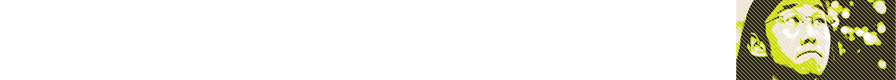
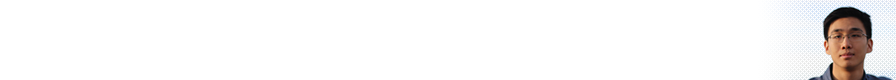
changed sidebar bg pattern to be more subtle

Changed region(s): [[0.8125, 0.0, 1.0, 1.0]]

diff --git a/css/style.css b/css/style.css
@@ -416,7 +416,7 @@ div #header {
 
 div #container_content {
 	width: 960px;
-	background: transparent url('img/sidebar-bg.png') repeat-y left top;
+	background: transparent url('img/sidebar-bg_slant.png') repeat-y left top;
 	clear: both;
 }
 
